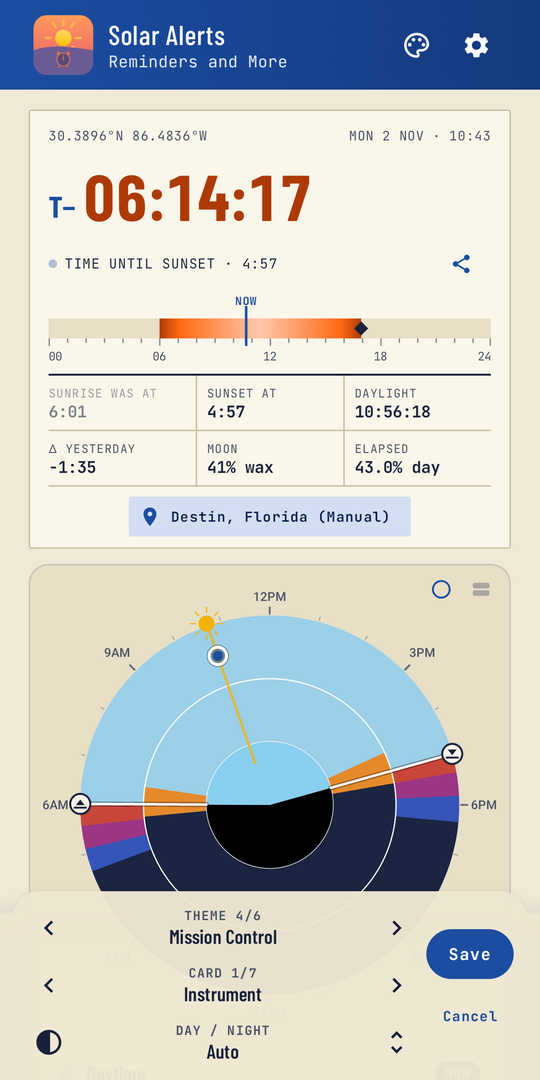
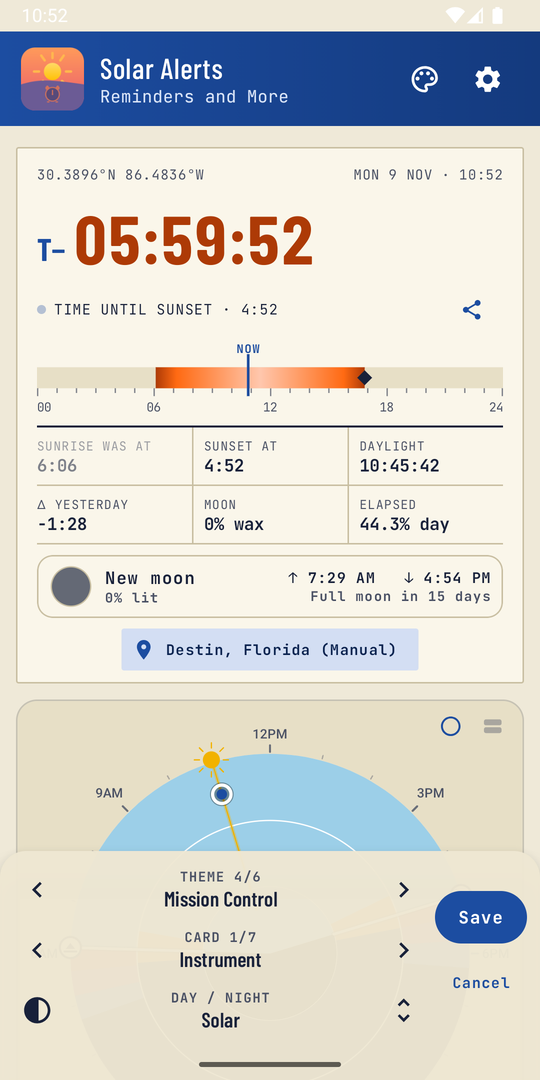
site: align with Solar Alerts 1.2.78 — sky timelapse, moon on every card, new screenshots
Claude-Session: https://claude.ai/code/session_017Wtmsh3778DG7oVa21LQmx

diff --git a/index.html b/index.html
@@ -105,7 +105,7 @@
 </ul>
 </article>
 </div>
-<p class="also">Also: <a href="#themes">six themes</a> (Solar Classic, Kodachrome &rsquo;70s, Ukiyo-e Woodblock, Mission Control, Observatory Brass and Riso Almanac), each with a day and a night look, plus countdown card layouts from Sun Arc to Departure Board that you can preview live before saving. And 12-hour or 24-hour time, share today's sunset time with friends, and built-in help for every setting.</p>
+<p class="also">Also: <a href="#themes">six themes</a> (Solar Classic, Kodachrome &rsquo;70s, Ukiyo-e Woodblock, Mission Control, Observatory Brass and Riso Almanac), each with a day and a night look, plus countdown card layouts from Sun Arc to Departure Board that you can preview live before saving; the cards that draw the sun open with a quick sky timelapse from the last sunrise or sunset to now. And 12-hour or 24-hour time, share today's sunset time with friends, and built-in help for every setting.</p>
 </div>
 </section>
 
@@ -162,10 +162,18 @@
 <section class="section flush" id="whats-new" aria-labelledby="new-h">
 <div class="wrap">
 <span class="kicker">Release notes</span>
-<h2 id="new-h">What's new in 1.2.77</h2>
+<h2 id="new-h">What's new in 1.2.78</h2>
 <div class="releases">
 <article class="release latest">
-<header><h3>1.2.77</h3><span class="badge">Latest</span><time datetime="2026-11-06">November 6, 2026</time></header>
+<header><h3>1.2.78</h3><span class="badge">Latest</span><time datetime="2026-11-09">November 9, 2026</time></header>
+<ul class="ticks">
+<li><b>Sky timelapse:</b> when the app opens, the Sun Arc, Horizon Glass, Daylight Ring, Outrun and Paper Coast cards fast-forward the sky from the last sunrise or sunset to right now, rushing at first and then easing into place. At night the sun sets and the moon takes over. Tap the card to skip it; it stays off when animations are turned off or Battery Saver is on.</li>
+<li><b>Moon on every card:</b> every home card, in every theme, shows the moon's real phase, how much is lit, the next moonrise and moonset, and the days until the next full or new moon. Tap it for full sun and moon details.</li>
+<li><b>Fixed:</b> Bento, Instrument and Paper Coast could show the moon at the opposite point in its cycle; they now match the real sky.</li>
+</ul>
+</article>
+<article class="release">
+<header><h3>1.2.77</h3><time datetime="2026-11-06">November 6, 2026</time></header>
 <ul class="ticks">
 <li><b>Clock changes:</b> on nights when clocks go back or forward, the countdown, its progress bar and the editor's "you'll be alerted in…" now count real hours instead of being an hour off.</li>
 <li><b>Faster start:</b> settings load behind the splash screen, so the app opens straight into your theme without a pause.</li>
